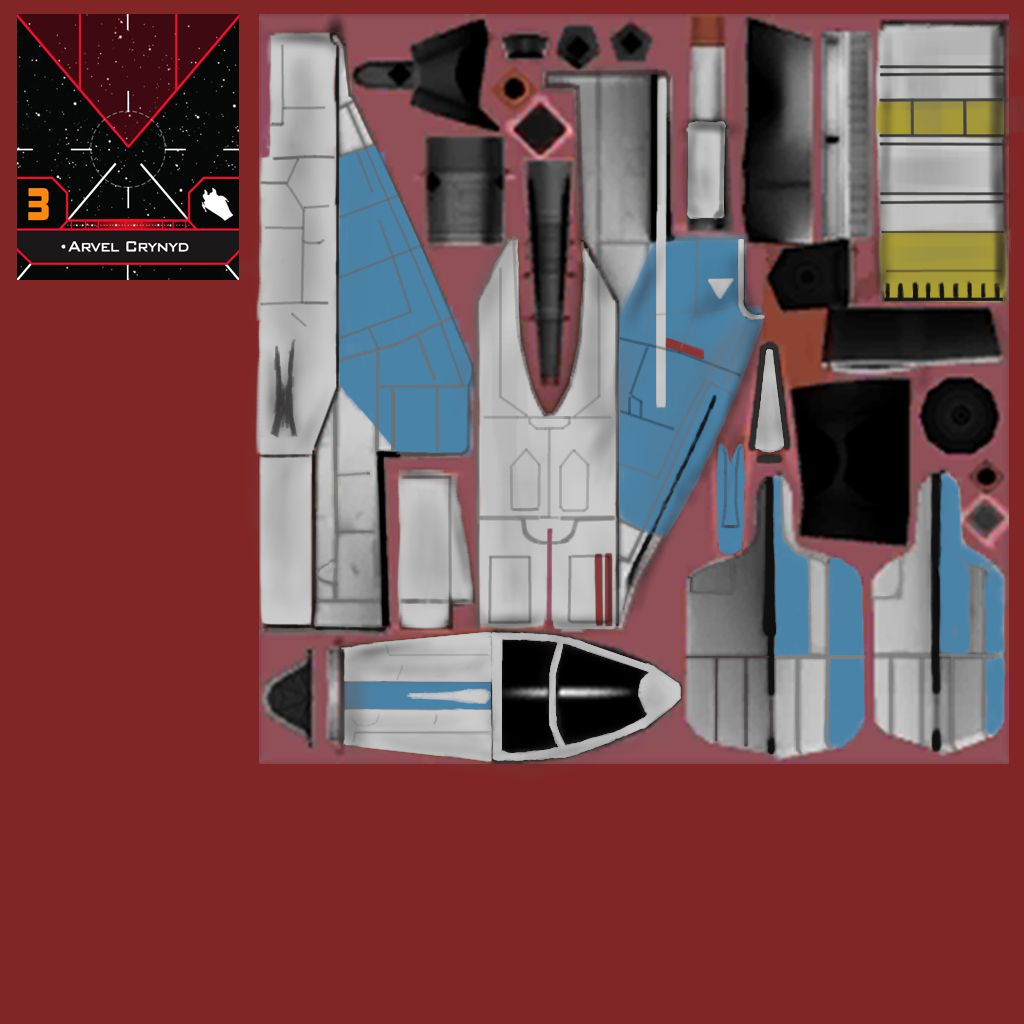
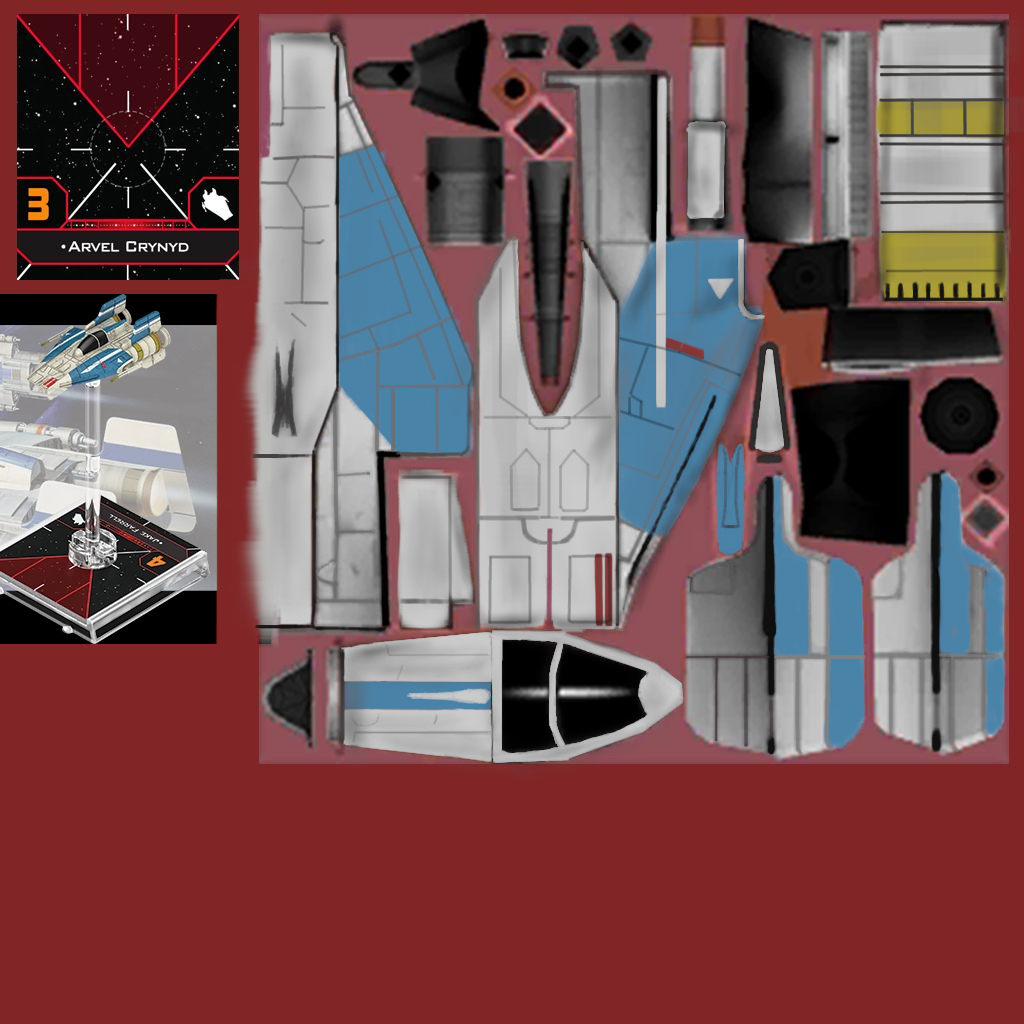
New skins by Andrew Lippens: Hera Syndulla A-Wing, Jango Fett Firespray-31

diff --git a/Assets/Scripts/Model/Content/SecondEdition/Pilots/RZ1AWing/HeraSyndulla.cs b/Assets/Scripts/Model/Content/SecondEdition/Pilots/RZ1AWing/HeraSyndulla.cs
@@ -24,7 +24,7 @@ namespace Ship
                 RequiredMods = new List<Type>() { typeof(PhoenixSquadronModSE) };
                 PilotNameCanonical = "herasyndulla-rz1awing-phoenixsquadronmod";
 
-                ModelInfo.SkinName = "Phoenix Squadron";
+                ModelInfo.SkinName = "Hera Syndulla";
 
                 ImageUrl = "https://i.imgur.com/kIxZ2u1.png";
             }

diff --git a/Assets/Scripts/Model/Content/FirstEdition/Pilots/AWing/HeraSyndulla.cs b/Assets/Scripts/Model/Content/FirstEdition/Pilots/AWing/HeraSyndulla.cs
@@ -23,7 +23,7 @@ namespace Ship
                 RequiredMods.Add(typeof(PhoenixSquadronMod));
                 ImageUrl = "https://i.imgur.com/4zfSMcc.png";
 
-                ModelInfo.SkinName = "Phoenix Squadron";
+                ModelInfo.SkinName = "Hera Syndulla";
             }
         }
     }
